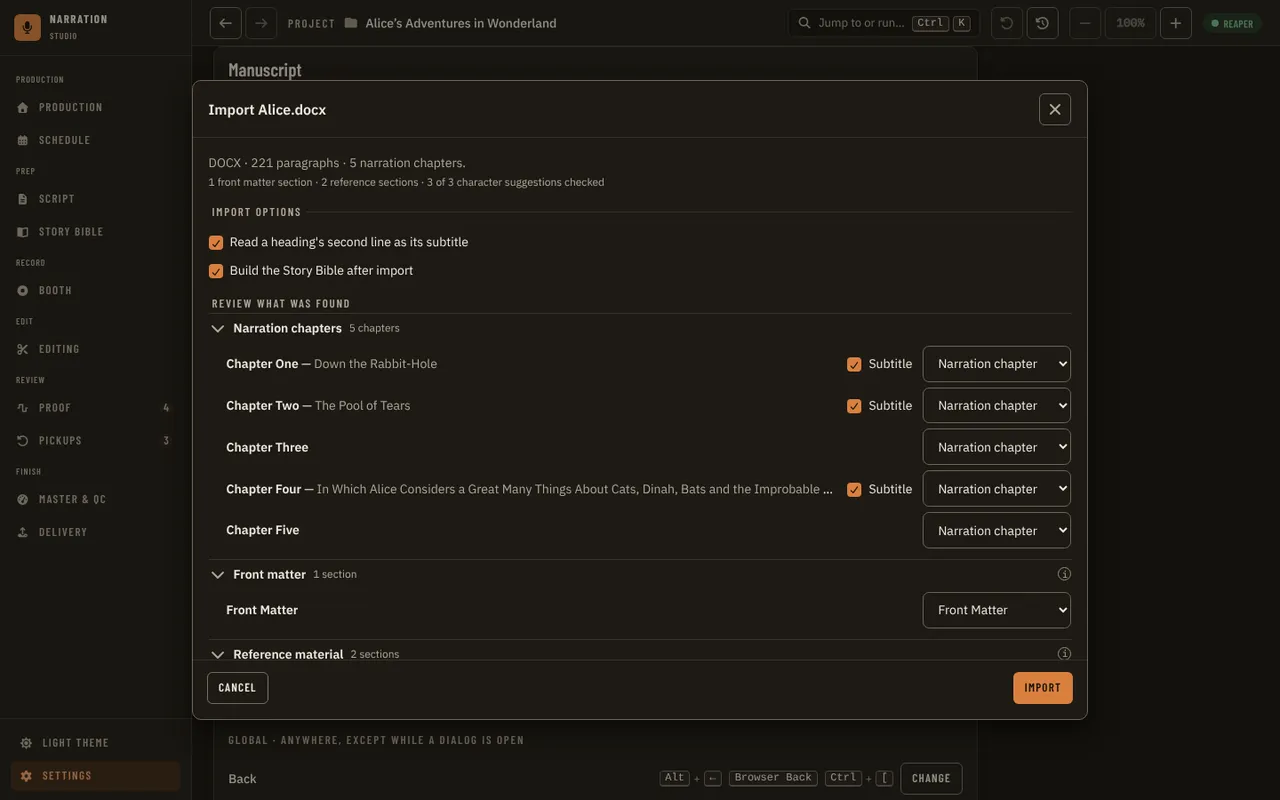
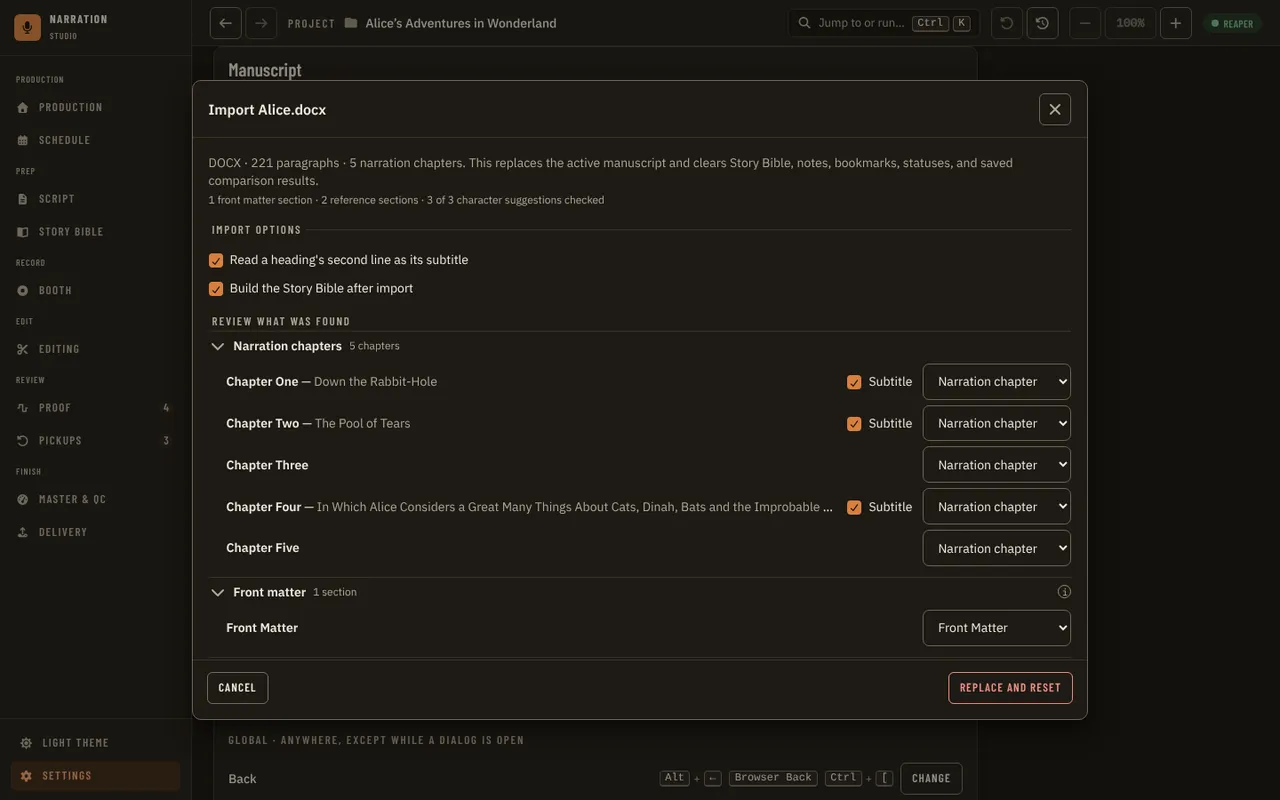
fix(ui): audit fixes for shell, production, getting started and settings (#1790)

Changed region(s): [[0.1562, 0.1875, 0.8438, 0.8438], [0.7188, 0.75, 0.8438, 0.9062], [0.8125, 0.7188, 0.8438, 0.75]]

diff --git a/apps/ui/src/App.tsx b/apps/ui/src/App.tsx
@@ -93,6 +93,39 @@ const LIVE_UPDATES_DEGRADED = 'Some live updates from the desktop host could not
 // dialogs claim the scope generically.
 const isModalOpen = () => Boolean(document.querySelector('[role="dialog"], [role="alertdialog"]'));
 
+// A `popstate` the app did not start (the keyboard's or the system's Back) from dirty Settings is stopped before the router sees it: once
+// the route changed, Settings would unmount and its edits be gone before any prompt. History is put back where it was and the same
+// "Unsaved settings" prompt asks. The listener is added when this module loads, ahead of the router's own, which React Router adds
+// when it mounts: listeners of one event run in the order they were added.
+const popGuard = {
+  dirty: false,
+  pathname: '',
+  idx: 0,
+  swallow: false,
+  isOwnPop: (): boolean => false,
+  ask: null as ((direction: 1 | -1) => void) | null,
+};
+const historyIdx = () => (window.history.state as { idx?: number } | null)?.idx ?? 0;
+if (typeof window !== 'undefined') {
+  window.addEventListener('popstate', (event) => {
+    if (popGuard.swallow) {
+      popGuard.swallow = false;
+      event.stopImmediatePropagation();
+      return;
+    }
+    const next = historyIdx();
+    if (!popGuard.ask || popGuard.isOwnPop() || !popGuard.dirty || popGuard.pathname !== '/settings' || window.location.pathname.endsWith('/settings')) {
+      popGuard.idx = next;
+      return;
+    }
+    event.stopImmediatePropagation();
+    const delta = next - popGuard.idx;
+    popGuard.swallow = true;
+    window.history.go(-delta);
+    popGuard.ask(delta < 0 ? -1 : 1);
+  });
+}
+
 export function App({ journal }: { journal?: Journal } = {}) {
   // Every build except the demo serves from the site root (base: '/', vite.config.ts), so this is a
   // no-op basename there. The demo serves under /narration-utils/demo/: without a matching basename
@@ -137,6 +170,9 @@ function AppRoutes() {
   const guardedBackRef = useRef<() => void>(() => {});
   const guardedForwardRef = useRef<() => void>(() => {});
   const prevPathnameRef = useRef(location.pathname);
+  // The page the last move left. `unexpectedPop` is set one render after the location changes, by which time
+  // `prevPathnameRef` already holds the new page.
+  const leftPathnameRef = useRef(location.pathname);
   // The compare run's phase, read by the pop-recovery effect below without resubscribing it on every transcript event.
   const transcriptPhaseRef = useRef<string>('idle');
   const [data, setData] = useState<Bootstrap>();
@@ -525,13 +561,28 @@ function AppRoutes() {
     ] satisfies ContextMenuItem[],
   };
 
+  popGuard.dirty = settingsDirty;
+  popGuard.pathname = location.pathname;
+  popGuard.isOwnPop = history.isOwnPop;
+  useEffect(() => {
+    popGuard.ask = (direction) => setPendingMove({ kind: 'delta', direction });
+    popGuard.idx = historyIdx();
+    return () => {
+      popGuard.ask = null;
+      popGuard.dirty = false;
+    };
+  }, []);
+  useEffect(() => {
+    popGuard.idx = historyIdx();
+  }, [location.key]);
+
   // Recovery for a `popstate` the app did not start (a mouse-button gesture WebView2 acts on
   // despite `preventDefault`, if that happens). The move already took effect; if it left
   // Settings dirty, push Settings back and ask, so the change is not lost silently. Leaving a Proof chapter view with
   // a run still resets the run either way.
   useEffect(() => {
     if (history.unexpectedPop) {
-      const leftPathname = prevPathnameRef.current;
+      const leftPathname = leftPathnameRef.current;
       history.clearUnexpectedPop();
       if (leftPathname === '/settings' && settingsDirty) {
         const landedAt = location.pathname + location.hash;
@@ -541,6 +592,7 @@ function AppRoutes() {
         void api.transcriptReset().catch(() => {});
       }
     }
+    if (prevPathnameRef.current !== location.pathname) leftPathnameRef.current = prevPathnameRef.current;
     prevPathnameRef.current = location.pathname;
   }, [location.pathname, location.hash, history, settingsDirty, api, navigate]);
 

diff --git a/apps/ui/src/components/layout/AppShell.tsx b/apps/ui/src/components/layout/AppShell.tsx
@@ -270,7 +270,7 @@ export function AppShell({
               </TooltipTarget>
             </div>
             {/* Left-aligned after the history buttons, as the mocks draw it; it takes the free width and truncates first. */}
-            <div className="flex min-w-0 flex-1 items-center gap-2">
+            <div className="flex min-w-16 flex-1 items-center gap-2">
               {/* Below `md` the two history buttons leave less room: the label and
                   folder icon drop first, and the project name is left to truncate on its own. */}
               <span className="section-label max-md:hidden">Project</span>
@@ -284,18 +284,18 @@ export function AppShell({
                 onClick={onOpenJump}
                 aria-label="Jump to or run…"
                 aria-keyshortcuts="Control+K"
-                className="flex h-8 min-w-0 flex-none cursor-pointer items-center gap-2 rounded-[var(--radius-button)] border border-[var(--border)] bg-[var(--bg)] px-2.5 text-[length:var(--font-size-sm)] text-[var(--text-muted)] hover:bg-[var(--surface-2)] max-md:size-8 max-md:justify-center max-md:px-0"
+                className="flex h-8 min-w-0 flex-none cursor-pointer items-center gap-2 rounded-[var(--radius-button)] border border-[var(--border)] bg-[var(--bg)] px-2.5 text-[length:var(--font-size-sm)] text-[var(--text-muted)] hover:bg-[var(--surface-2)] max-lg:size-8 max-lg:justify-center max-lg:px-0"
               >
                 <FontAwesomeIcon icon={iconFor('jumpTo')} />
-                <span className="max-md:hidden">Jump to or run…</span>
-                <span className="max-lg:hidden">
+                <span className="max-lg:hidden">Jump to or run…</span>
+                <span className="max-xl:hidden">
                   <KeyChord keys={['Ctrl', 'K']} />
                 </span>
               </button>
             </TooltipTarget>
             {/* Below `md` there is no room for these two beside the zoom group at 390 px: the jump menu lists "Open the undo history" there, and each
-                history row has its own Undo. */}
-            <div className="flex flex-none items-center gap-1 max-md:hidden" role="group" aria-label="Undo history">
+                history row has its own Undo. While a timer chip runs the pair also drops below `lg`, so the project name keeps room. */}
+            <div className={`flex flex-none items-center gap-1 ${timer ? 'max-lg:hidden' : 'max-md:hidden'}`} role="group" aria-label="Undo history">
               <TooltipTarget text={undo.disabledReason ?? 'Undo the last change'}>
                 <IconButton label="Undo" disabledReason={undo.disabledReason} onClick={undo.run}>
                   <FontAwesomeIcon icon={faRotateLeft} />
@@ -308,8 +308,8 @@ export function AppShell({
               </TooltipTarget>
             </div>
             {timer && <TimerChip timer={timer} />}
-            {/* The zoom group (ADR 0407): after a running timer chip, before the engine chip. */}
-            <div className="flex flex-none items-center gap-1" role="group" aria-label="Zoom">
+            {/* The zoom group (ADR 0407): after a running timer chip, before the engine chip. Below `md` a running timer takes its room (Ctrl+wheel and the shortcuts still zoom). */}
+            <div className={`flex flex-none items-center gap-1 ${timer ? 'max-md:hidden' : ''}`} role="group" aria-label="Zoom">
               <TooltipTarget text={zoomOutTooltip}>
                 <IconButton label="Zoom out" disabledReason={zoom.canZoomOut ? undefined : zoomOutTooltip} onClick={zoom.zoomOut}>
                   <FontAwesomeIcon icon={faMinus} />

diff --git a/apps/ui/src/components/production/ManuscriptImport.test.tsx b/apps/ui/src/components/production/ManuscriptImport.test.tsx
@@ -164,6 +164,36 @@ describe('the import review dialog, as the narrator meets it', () => {
     expect(commit.mock.calls[0]?.[1].confirmedReset).toBe(true);
   });
 
+  it('Replace manuscript names what it clears before the first confirm, whatever the host flag says (#1777)', async () => {
+    const api = createMockApi({}, { importPreview: 'docx' });
+    const commit = vi.spyOn(api, 'manuscriptImportCommit');
+    const data: Bootstrap = await api.bootstrap();
+    expect(data.manuscript).toBeTruthy();
+    render(
+      <MemoryRouter>
+        <ApiProvider api={api}>
+          <ImportHarness data={data} go={() => {}} notify={() => {}} refreshBootstrap={async () => {}} />
+        </ApiProvider>
+      </MemoryRouter>,
+    );
+    fireEvent.click(await screen.findByRole('button', { name: 'Replace manuscript…' }));
+    const dialog = within(await screen.findByRole('alertdialog', { name: /^Import Alice\./ }));
+    expect(dialog.getByText(/This replaces the active manuscript and clears Story Bible, notes, bookmarks, statuses/)).toBeTruthy();
+    expect(dialog.queryByRole('button', { name: 'Import' })).toBeNull();
+    fireEvent.click(dialog.getByRole('button', { name: 'Replace and reset' }));
+    await waitFor(() => expect(commit).toHaveBeenCalled());
+    expect(commit.mock.calls[0]?.[1].confirmedReset).toBe(true);
+  });
+
+  it('the mock host, like the real one, writes nothing on the first commit over an existing manuscript', async () => {
+    const api = createMockApi({}, { importPreview: 'docx' });
+    const { jobId } = await api.selectManuscript();
+    await api.manuscriptImportPreview(jobId!, { markdownHeadingLevel: 1 });
+    const first = await api.manuscriptImportCommit(jobId!, { confirmedReset: false });
+    expect({ phase: first.phase, requiresReset: first.requiresReset }).toEqual({ phase: 'ready', requiresReset: true });
+    expect((await api.manuscriptImportCommit(jobId!, { confirmedReset: true })).phase).toBe('success');
+  });
+
   it('cancelling asks the host to drop the job and closes the dialog', async () => {
     let cancel = vi.fn();
     const { dialog } = await openReview((api) => void (cancel = vi.spyOn(api, 'manuscriptImportCancel')));

diff --git a/apps/ui/src/components/production/ManuscriptImport.tsx b/apps/ui/src/components/production/ManuscriptImport.tsx
@@ -44,6 +44,8 @@ export function useManuscriptImport({
 }): { chooseButton: ReactNode; dialogs: ReactNode; creditsBanner: ReactNode } {
   const api = useApi();
   const found = Boolean(data.manuscript);
+  // A project that holds a manuscript is replaced, not imported into: the review says what that clears before it asks, not after.
+  const replacing = found;
   // The import's own job is polled while the host prepares or commits it; its success stays set, for the effect below to act on once.
   const [importJob, setImportJob] = useWorkJob({
     poll: (job) => api.manuscriptImportState(job.id!),
@@ -181,7 +183,7 @@ export function useManuscriptImport({
       // stages, or it is still 'ready' with requiresReset asking for a confirm.
       setImportJob(
         await api.manuscriptImportCommit(importJob.id, {
-          confirmedReset: Boolean(importJob.requiresReset),
+          confirmedReset: replacing || Boolean(importJob.requiresReset),
           selection: {
             sectionKinds: importSelection.sectionKinds,
             characterCandidateIds: selectedCharacterCandidateIds,
@@ -247,9 +249,9 @@ export function useManuscriptImport({
       {importJob?.phase === 'ready' && importJob.preview && (
         <ConfirmDialog
           title={`Import ${importJob.preview.sourceName}`}
-          body={<ImportSummary preview={importJob.preview} selection={importSelection} requiresReset={Boolean(importJob.requiresReset)} />}
-          confirmLabel={importJob.requiresReset ? 'Replace and reset' : 'Import'}
-          confirmVariant={importJob.requiresReset ? 'danger' : 'primary'}
+          body={<ImportSummary preview={importJob.preview} selection={importSelection} requiresReset={replacing || Boolean(importJob.requiresReset)} />}
+          confirmLabel={replacing || importJob.requiresReset ? 'Replace and reset' : 'Import'}
+          confirmVariant={replacing || importJob.requiresReset ? 'danger' : 'primary'}
           confirm={() => void commitImport()}
           cancel={() =>
             void api

diff --git a/apps/ui/src/components/settings/page/RecordingPanel.test.tsx b/apps/ui/src/components/settings/page/RecordingPanel.test.tsx
@@ -48,8 +48,24 @@ describe('RecordingPanel', () => {
     expect(onLinkDawFile).toHaveBeenCalled();
   });
 
-  it('saves the built-in recorder and reads the answer back', async () => {
+  it('says why the built-in recorder cannot be chosen while it is switched off, and keeps the engine it had (#1777)', async () => {
     const api = createMockApi({}, foundSeed);
+    mount(api);
+    await waitFor(() => expect(screen.getByRole('radio', { name: /^REAPER\./ }).getAttribute('aria-checked')).toBe('true'));
+    fireEvent.click(await screen.findByRole('radio', { name: /^Built-in recorder/ }));
+    expect((await screen.findByRole('alert')).textContent).toContain('Experimental: switched off in Settings.');
+    expect(screen.getByRole('radio', { name: /^REAPER\./ }).getAttribute('aria-checked')).toBe('true');
+    expect((await api.recorderState()).engine).not.toBe('builtin');
+  });
+
+  it('names no .rpp file under Audacity (#1777)', async () => {
+    mount(createMockApi({}, { dawChoice: { chosen: 'Audacity' }, daw: { daw: 'Audacity' } }));
+    await screen.findByTestId('recording-daw-status');
+    expect(screen.getByTestId('recording-daw-status').textContent).not.toMatch(/\.rpp/);
+  });
+
+  it('saves the built-in recorder and reads the answer back', async () => {
+    const api = createMockApi({}, { ...foundSeed, daw: { connected: false, experimentalOn: true } });
     mount(api);
     fireEvent.click(await screen.findByRole('radio', { name: /^Built-in recorder/ }));
     await waitFor(() => expect(screen.getByRole('radio', { name: /^Built-in recorder/ }).getAttribute('aria-checked')).toBe('true'));

diff --git a/apps/ui/src/App.test.tsx b/apps/ui/src/App.test.tsx
@@ -1410,6 +1410,24 @@ describe('App Back and Forward', () => {
     expect(saveSettings).toHaveBeenCalledWith('General', 'global', expect.objectContaining({ log_verbosity: 'verbose' }));
   });
 
+  it('a browser Back the app did not start, from dirty Settings, restores Settings and asks (#1779)', async () => {
+    renderApp();
+    await screen.findByRole('heading', { level: 1, name: 'Production' });
+    fireEvent.click(screen.getAllByRole('button', { name: 'Settings' })[0]);
+    await screen.findByRole('heading', { name: 'Settings' });
+    const modelField = await within(screen.getByRole('region', { name: 'General' })).findByDisplayValue('normal');
+    fireEvent.change(modelField, { target: { value: 'verbose' } });
+
+    // A popstate the app's own guarded Back did not start (a mouse-button gesture, history.back()).
+    act(() => window.history.back());
+
+    expect(await screen.findByText('Save or discard changes before leaving Settings?')).toBeTruthy();
+    await waitFor(() => expect(window.location.pathname).toBe('/settings'));
+    // Settings never unmounted, so Cancel leaves the edit where it was.
+    fireEvent.click(screen.getByRole('button', { name: 'Cancel' }));
+    expect(within(screen.getByRole('region', { name: 'General' })).getByDisplayValue('verbose')).toBeTruthy();
+  });
+
   it('Back from a Proof chapter view with a run resets the transcript run, like the nav', async () => {
     const transcriptReset = vi.fn(createMockApi().transcriptReset);
     renderApp({ transcriptReset });

diff --git a/apps/ui/tests/visual/drivers/production.ts b/apps/ui/tests/visual/drivers/production.ts
@@ -135,7 +135,7 @@ export const productionDrivers: Record<string, Driver> = {
     // default): uncheck it so the import dialog stays open with "Manuscript imported" instead of closing itself
     // into a second dialog.
     await clickVisible(page, 'checkbox', 'Build the Story Bible after import');
-    await clickVisible(page, 'button', 'Import');
+    await clickVisible(page, 'button', 'Replace and reset');
     await page.getByText('Manuscript imported', { exact: true }).first().waitFor();
   },
   'import-build-running': async (page) => {
@@ -143,7 +143,7 @@ export const productionDrivers: Record<string, Driver> = {
     await page.goto('/?mockBuild=hold');
     await settlePage(page);
     await clickReplaceManuscript(page);
-    await clickVisible(page, 'button', 'Import');
+    await clickVisible(page, 'button', 'Replace and reset');
     await page.getByRole('dialog', { name: 'Build the Story Bible' }).getByText('Extracting names and terms').first().waitFor();
   },
   'import-build-failed': async (page) => {
@@ -151,7 +151,7 @@ export const productionDrivers: Record<string, Driver> = {
     await page.goto('/?mockBuild=fails');
     await settlePage(page);
     await clickReplaceManuscript(page);
-    await clickVisible(page, 'button', 'Import');
+    await clickVisible(page, 'button', 'Replace and reset');
     await page
       .getByRole('dialog', { name: 'Build the Story Bible' })
       .getByText(/model folder is missing its config\.cfg/)

diff --git a/apps/ui/src/api/mockHost/manuscript.ts b/apps/ui/src/api/mockHost/manuscript.ts
@@ -131,6 +131,7 @@ export function createManuscriptMock(
   });
   let importJob: WorkJob = { id: null, kind: 'manuscript_import', phase: 'idle', message: 'Ready to import.', percent: 0, logs: [], elapsed: 0 };
   // Choosing a file and accepting the offer of one both begin the same job; the preview it will answer is `initial.importPreview`.
+  let imported = false;
   const startImport = () => {
     importJob = {
       id: 'mock-import',
@@ -160,7 +161,19 @@ export function createManuscriptMock(
       };
       return wireClone(importJob);
     },
-    manuscriptImportCommit: async () => {
+    manuscriptImportCommit: async (_jobId, { confirmedReset }) => {
+      // Like the host (`manuscript/service.go`): a project that already holds a manuscript answers the first commit with
+      // `requiresReset` and writes nothing until the narrator confirms the replace.
+      if ((!initial.noManuscript || imported) && !confirmedReset) {
+        importJob = {
+          ...importJob,
+          phase: 'ready',
+          requiresReset: true,
+          message: 'Replacing a manuscript clears its derived review data. Confirm to continue.',
+        };
+        return wireClone(importJob);
+      }
+      imported = true;
       const sourceName = importJob.preview?.sourceName ?? 'Alice.docx';
       const format = importJob.preview?.format ?? 'docx';
       importJob = {

diff --git a/apps/ui/src/api/wireContracts.test.ts b/apps/ui/src/api/wireContracts.test.ts
@@ -1921,9 +1921,13 @@ describe('answers of the mock client for the settings, voice, model, transcript 
     const after = await found.dawLinkFound();
     expectMatches(dawChoiceSchema, after, 'mock daw choice (after linking)');
     expect({ state: after.state, linkedFile: after.linkedFile, chosen: after.chosen }).toEqual({ state: 'linked', linkedFile: 'Alice.rpp', chosen: 'REAPER' });
-    const builtin = await found.dawChoose('Built-in');
+    // The host refuses the built-in recorder where it cannot record; here the Experimental switch is off, and the choice stays.
+    await expect(found.dawChoose('Built-in')).rejects.toThrow('Experimental: switched off in Settings.');
+    expect((await found.dawChoice()).daw).toBe('REAPER');
+    const experimental = createMockApi({}, { dawChoice: { linkedFile: null, foundFiles: ['Alice.rpp'] }, daw: { connected: false, experimentalOn: true } });
+    const builtin = await experimental.dawChoose('Built-in');
     expect({ daw: builtin.daw, state: builtin.state }).toEqual({ daw: 'Built-in', state: 'app' });
-    expect((await found.recorderState()).engine).toBe('builtin');
+    expect((await experimental.recorderState()).engine).toBe('builtin');
     await expect(createMockApi({}, { dawChoice: { linkedFile: null, foundFiles: ['a.rpp', 'b.rpp'] } }).dawLinkFound()).rejects.toThrow(
       '2 REAPER project files',
     );

diff --git a/apps/ui/src/components/settings/CreditsPanel.tsx b/apps/ui/src/components/settings/CreditsPanel.tsx
@@ -12,6 +12,12 @@ import { Highlight } from '../primitives/Highlight';
 import type { Notify } from '../primitives/Toast';
 
 const KIND_LABEL: Record<string, string> = { opening: 'Opening', closing: 'Closing', chapter_announcement: 'Chapter announcement' };
+
+/** The picker's label: the name with its kind, unless the name already says it ("ACX minimum (opening)"). */
+function templateLabel(template: { name: string; kind: string }): string {
+  const kind = KIND_LABEL[template.kind] ?? template.kind;
+  return template.name.toLowerCase().includes(`(${kind.toLowerCase()})`) ? template.name : `${template.name} (${kind})`;
+}
 const KIND_OPTIONS = [
   { value: 'opening', label: 'Opening' },
   { value: 'closing', label: 'Closing' },
@@ -243,7 +249,7 @@ export function CreditsPanel({ notify }: { notify: Notify }) {
             value={selectedId}
             onChange={setSelectedId}
             fullWidth
-            options={templates.map((template) => ({ value: template.id, label: `${template.name} (${KIND_LABEL[template.kind] ?? template.kind})` }))}
+            options={templates.map((template) => ({ value: template.id, label: templateLabel(template) }))}
           />
           <Button variant="secondary" type="button" disabled={busy} onClick={newTemplate}>
             New

diff --git a/apps/ui/src/components/project/NewProjectDialog.test.tsx b/apps/ui/src/components/project/NewProjectDialog.test.tsx
@@ -46,6 +46,17 @@ describe('NewProjectDialog', () => {
     await waitFor(() => expect(onCreated).toHaveBeenCalledWith({ switched: true }));
   });
 
+  it('creates the project when Enter is pressed in the Name field, and not while the name is empty (#1778)', async () => {
+    const createProject = vi.fn(async () => ({ switched: true }));
+    const { onCreated } = renderDialog({ createProject });
+    fireEvent.submit(screen.getByLabelText('Name').closest('form')!);
+    expect(createProject).not.toHaveBeenCalled();
+    fireEvent.change(screen.getByLabelText('Name'), { target: { value: 'Alice' } });
+    fireEvent.submit(screen.getByLabelText('Name').closest('form')!);
+    await waitFor(() => expect(onCreated).toHaveBeenCalled());
+    expect(createProject).toHaveBeenCalledWith('', 'Alice');
+  });
+
   it('trims surrounding whitespace from the name before creating', async () => {
     const createProject = vi.fn(async () => ({ switched: true }));
     renderDialog({ createProject });

diff --git a/apps/ui/src/components/project/NewProjectDialog.tsx b/apps/ui/src/components/project/NewProjectDialog.tsx
@@ -82,7 +82,15 @@ export function NewProjectDialog({ onClose, onCreated }: Props) {
           {error}
         </p>
       )}
-      <Field label="Name" value={name} onChange={setName} autoFocus disabled={busy} placeholder="My New Audiobook" />
+      {/* A form around the one field, so Enter creates the project like the Create button does. */}
+      <form
+        onSubmit={(event) => {
+          event.preventDefault();
+          if (name.trim() && !busy) create();
+        }}
+      >
+        <Field label="Name" value={name} onChange={setName} autoFocus disabled={busy} placeholder="My New Audiobook" />
+      </form>
       <p className="mt-3 text-sm" style={{ color: 'var(--text-muted)' }}>
         Location:{' '}
         <span className="font-['IBM_Plex_Mono',ui-monospace,monospace] break-all">{parent ?? (defaultLocation || 'the default projects folder')}</span>
